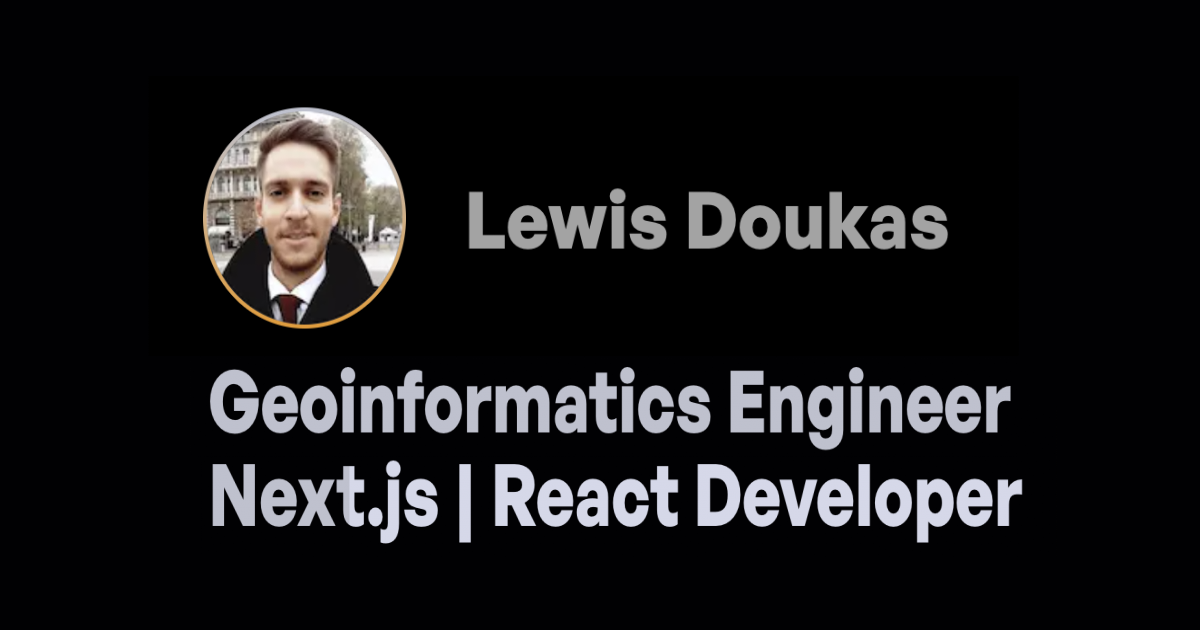
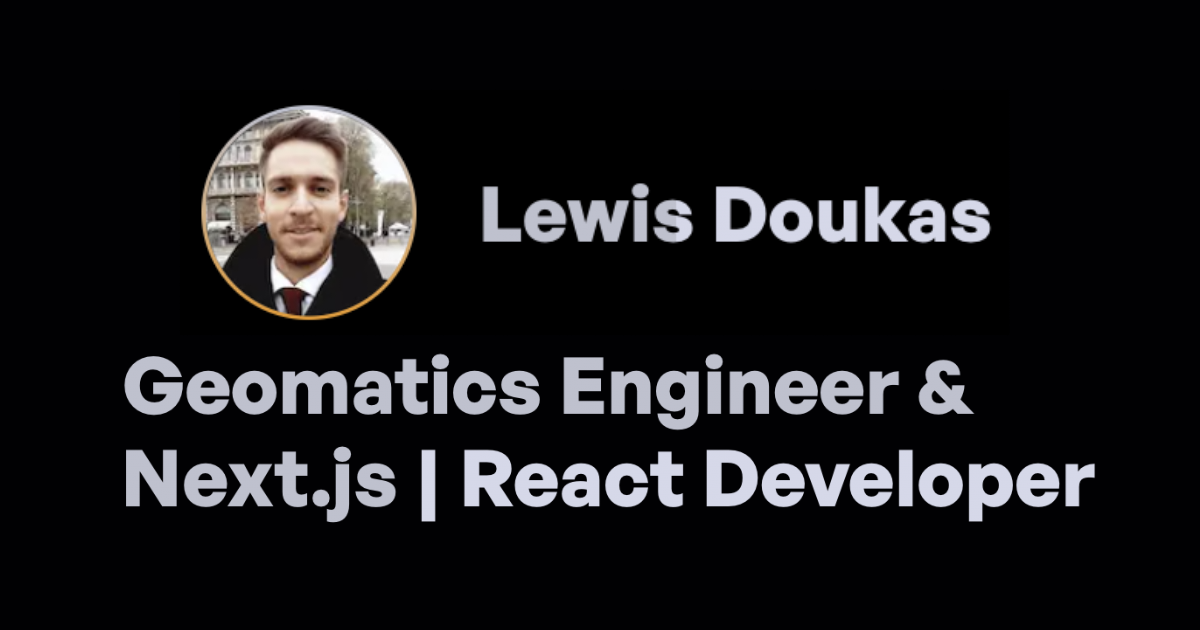
Change title

Changed region(s): [[0.0925, 0.5429, 0.925, 0.8746], [0.1542, 0.1508, 0.8325, 0.5429]]

diff --git a/app/_sections/NavBar.tsx b/app/_sections/NavBar.tsx
@@ -29,7 +29,7 @@ const NavBar = () => {
         <div className="flex justify-between items-center py-5 mx-auto c-space">
           <Link
             href="/"
-            className="flex items-center gap-4 text-neutral-400 font-bold text-xl hover:text-white transition-colors"
+            className="flex items-center gap-4 text-gray_gradient font-bold text-xl hover:text-white transition-colors"
           >
             <Image
               src="/assets/ilias.jpg"

diff --git a/app/_sections/Hero.tsx b/app/_sections/Hero.tsx
@@ -44,7 +44,7 @@ const Hero = () => {
           <span className="waving-hand ms-2">👋</span>
         </h1>
         <p className="hero_tag text-gray_gradient">
-          Geoinformatics Engineer & Next.js | React Developer
+          Geomatics Engineer & Next.js | React Developer
         </p>
       </div>
 
